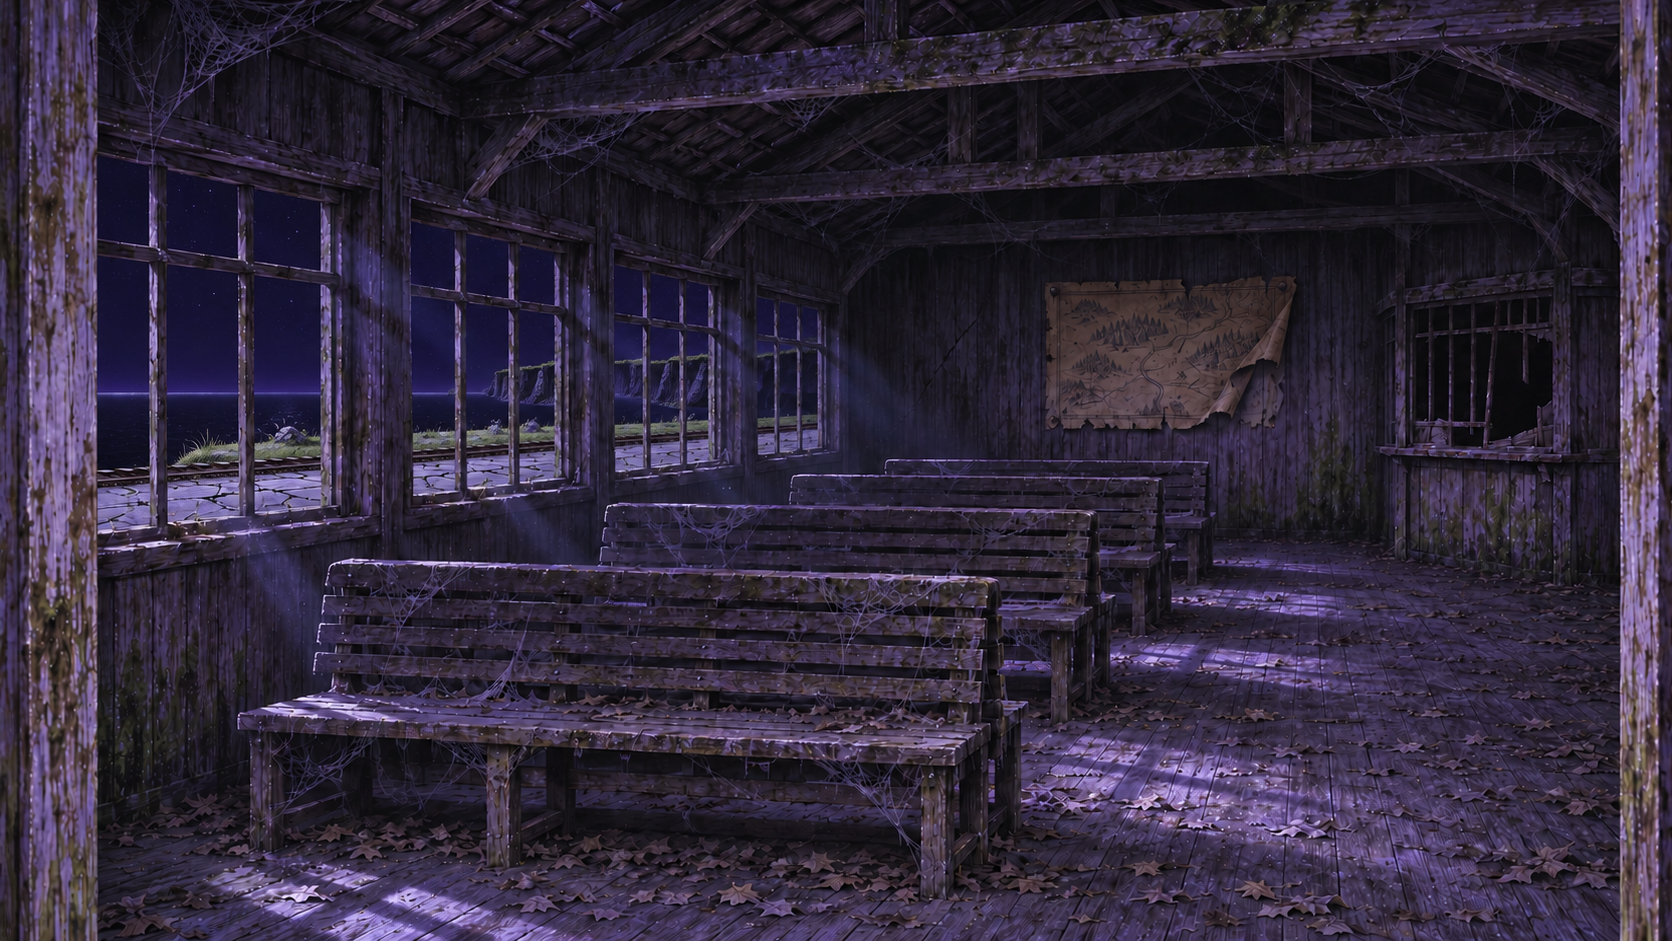
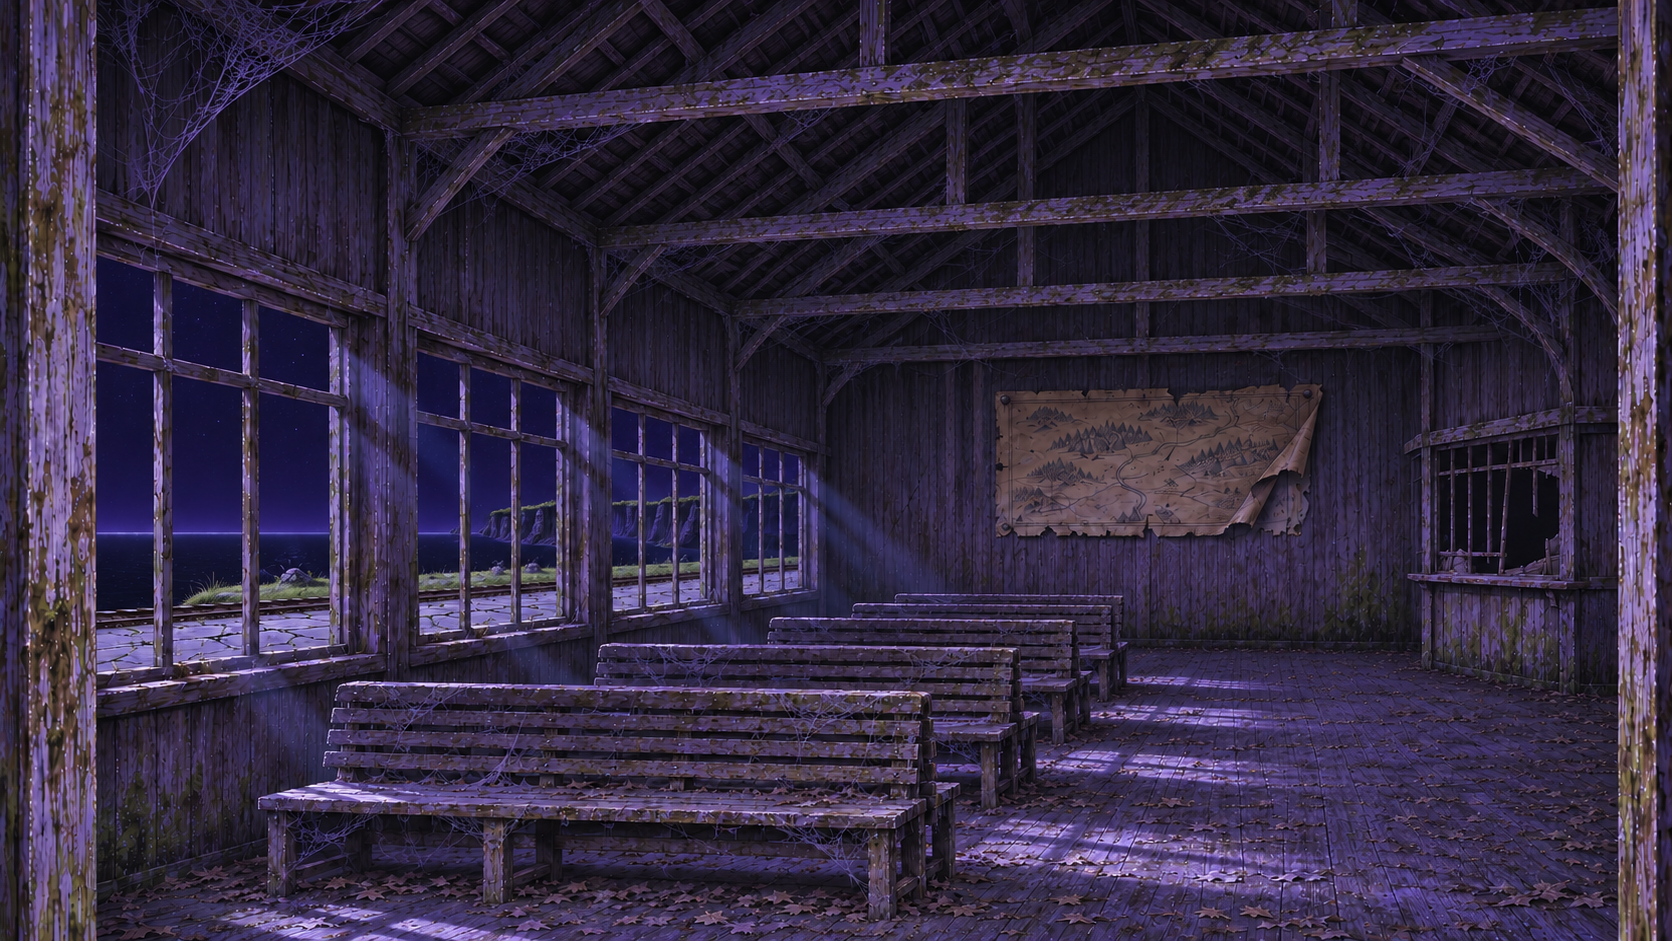
Match the waiting-room reference to through_window's proportions
The empty jishui_waiting_room reference showed a low room, while
b1a_act6_through_window has a high open roof with a taller end wall, so
the end wall, map and ticket window read at different sizes. Redraw the
reference with the same high roof and sizes, and update the act 6
prompts and the art bible to match.

diff --git a/packages/stories/raw/trainAdventure/branch_1a/act6.md b/packages/stories/raw/trainAdventure/branch_1a/act6.md
@@ -51,7 +51,7 @@ reuse branch_1a/b1a_act6_blame
 **旁白**：李杰、恵美和慷慨大叔三人朝著那個黑洞洞的候車室走去，留下了還在互相指責的學生和膽小眼鏡男。
 
 ```bg waiting_room
-the waiting room inside the abandoned wooden station house of Jishui: a long, low single-storey room with a dusty plank floor strewn with dead leaves; dark weathered plank walls with cracks and mould stains; exposed old roof beams heavy with cobwebs; rows of old wooden slatted benches draped with spider webs, all facing the same way; along the front wall, window openings in old wooden frames with no glass look out onto the cracked stone platform, the empty railway track just beyond it, then the grassy, rocky edge of a high sea cliff and the flat black sea far below it, with the sheer dark face of the cliff under the forest to one side and open sea to the horizon on the other, and no moon inside the openings; on the far end wall a large yellowed parchment map, torn at the edges and half peeling off the planks, held by rusty nails, with only faint ink lines of paths and a forest and no readable writing; a broken ticket window with wooden bars in one corner; cold violet moonlight falls in through the window openings in pale shafts; no lamps and no electric light inside. Camera: a medium shot inside the room at standing eye level, from beside the benches near the far end wall, looking at the map on the wall in three-quarter view. Li Jie (28-year-old man, short black hair, dark suit jacket, loosened navy tie, white shirt, black backpack) stands in front of the map holding up his phone, its white torch beam lighting a bright pool on the yellowed parchment; the rest of the room stays dark. Beside him on the left, Yamamoto (late-40s man, short grey-streaked hair, grey suit, navy striped tie) leans in, squinting and frowning at the map, baffled. On the right, a little behind Li Jie, Emi (young woman, long chestnut hair, beige cotton dress, white wired earphones), her sketchbook to her chest, gazes at the map with clear, sharp, focused eyes, reading it intently. Dust hangs in the torch beam. Only the people named here are in view. Muted cold palette with the small white glow of the phone torch, moody cinematic visual-novel background art, 16:9, no text, no logo
+the waiting room inside the abandoned wooden station house of Jishui: a long single-storey room under a high open roof with a dusty plank floor strewn with dead leaves; dark weathered plank walls with cracks and mould stains; exposed old roof beams heavy with cobwebs; rows of old wooden slatted benches draped with spider webs, all facing the same way; along the front wall, window openings in old wooden frames with no glass look out onto the cracked stone platform, the empty railway track just beyond it, then the grassy, rocky edge of a high sea cliff and the flat black sea far below it, with the sheer dark face of the cliff under the forest to one side and open sea to the horizon on the other, and no moon inside the openings; on the far end wall a large yellowed parchment map, torn at the edges and half peeling off the planks, held by rusty nails, with only faint ink lines of paths and a forest and no readable writing; a broken ticket window with wooden bars in one corner; cold violet moonlight falls in through the window openings in pale shafts; no lamps and no electric light inside. Camera: a medium shot inside the room at standing eye level, from beside the benches near the far end wall, looking at the map on the wall in three-quarter view. Li Jie (28-year-old man, short black hair, dark suit jacket, loosened navy tie, white shirt, black backpack) stands in front of the map holding up his phone, its white torch beam lighting a bright pool on the yellowed parchment; the rest of the room stays dark. Beside him on the left, Yamamoto (late-40s man, short grey-streaked hair, grey suit, navy striped tie) leans in, squinting and frowning at the map, baffled. On the right, a little behind Li Jie, Emi (young woman, long chestnut hair, beige cotton dress, white wired earphones), her sketchbook to her chest, gazes at the map with clear, sharp, focused eyes, reading it intently. Dust hangs in the torch beam. Only the people named here are in view. Muted cold palette with the small white glow of the phone torch, moody cinematic visual-novel background art, 16:9, no text, no logo
 ```
 
 **旁白**：候車室裡積了厚厚一層灰，空氣中充滿了木頭腐朽和塵土的味道。幾排木製長椅上佈滿了蜘蛛網。
@@ -85,7 +85,7 @@ the waiting room inside the abandoned wooden station house of Jishui: a long, lo
 **慷慨大叔**：(臉色一沉)不行，我得出去看看！這群年輕人太衝動了，萬一真鬧出事來就糟了！
 
 ```bg through_window
-the waiting room inside the abandoned wooden station house of Jishui: a long, low single-storey room with a dusty plank floor strewn with dead leaves; dark weathered plank walls with cracks and mould stains; exposed old roof beams heavy with cobwebs; rows of old wooden slatted benches draped with spider webs, all facing the same way; along the front wall, window openings in old wooden frames with no glass look out onto the cracked stone platform, the empty railway track just beyond it, then the grassy, rocky edge of a high sea cliff and the flat black sea far below it, with the sheer dark face of the cliff under the forest to one side and open sea to the horizon on the other, and no moon inside the openings; on the far end wall a large yellowed parchment map, torn at the edges and half peeling off the planks, held by rusty nails, with only faint ink lines of paths and a forest and no readable writing; a broken ticket window with wooden bars in one corner; cold violet moonlight falls in through the window openings in pale shafts; no lamps and no electric light inside. Camera: inside the dark waiting room at standing eye level, behind Li Jie and Emi, who stand at one of the glassless window openings in the front wall, looking out. Li Jie (28-year-old man, short black hair, dark suit jacket, black backpack) on the left of the opening and Emi (young woman, long chestnut hair, beige cotton dress, white wired earphones, plain white canvas sneakers) on the right, both seen from behind in three-quarter, dark shapes against the moonlit opening, Emi holding her sketchbook. Through the window opening, framed by its old wooden mullions: the cracked grey-white stone platform under cold violet moonlight, the empty track, the grassy cliff edge just past it, the black sea far below and, to one side, the dark cliff face under the forest, no moon visible. Out on the platform a loud argument, everyone facing each other, nobody walking away yet, from left to right: Yamamoto (late-40s man, short grey-streaked hair, no glasses, grey suit, navy striped tie, no bag, since he left it in the waiting room) steps in with one arm stretched out, trying to calm them; Saito Ren (rimless glasses, navy blazer over a white tee) leans forward shouting at the students; Kenta (light-brown hair, black-and-grey track jacket) jabs a finger at Saito, shouting back; Asuka (brown ponytail, denim jacket, blue jeans) shouts with both fists clenched; Misaki (dark bob, lavender cardigan, floral skirt, cream shoulder bag) cringes beside her; Takumi (black knit sweater) stands behind them, grim. The people outside are small. Only the people named here are in view. Muted cold palette, moody cinematic visual-novel background art, 16:9, no text, no logo
+the waiting room inside the abandoned wooden station house of Jishui: a long single-storey room under a high open roof with a dusty plank floor strewn with dead leaves; dark weathered plank walls with cracks and mould stains; exposed old roof beams heavy with cobwebs; rows of old wooden slatted benches draped with spider webs, all facing the same way; along the front wall, window openings in old wooden frames with no glass look out onto the cracked stone platform, the empty railway track just beyond it, then the grassy, rocky edge of a high sea cliff and the flat black sea far below it, with the sheer dark face of the cliff under the forest to one side and open sea to the horizon on the other, and no moon inside the openings; on the far end wall a large yellowed parchment map, torn at the edges and half peeling off the planks, held by rusty nails, with only faint ink lines of paths and a forest and no readable writing; a broken ticket window with wooden bars in one corner; cold violet moonlight falls in through the window openings in pale shafts; no lamps and no electric light inside. Camera: inside the dark waiting room at standing eye level, behind Li Jie and Emi, who stand at one of the glassless window openings in the front wall, looking out. Li Jie (28-year-old man, short black hair, dark suit jacket, black backpack) on the left of the opening and Emi (young woman, long chestnut hair, beige cotton dress, white wired earphones, plain white canvas sneakers) on the right, both seen from behind in three-quarter, dark shapes against the moonlit opening, Emi holding her sketchbook. Through the window opening, framed by its old wooden mullions: the cracked grey-white stone platform under cold violet moonlight, the empty track, the grassy cliff edge just past it, the black sea far below and, to one side, the dark cliff face under the forest, no moon visible. Out on the platform a loud argument, everyone facing each other, nobody walking away yet, from left to right: Yamamoto (late-40s man, short grey-streaked hair, no glasses, grey suit, navy striped tie, no bag, since he left it in the waiting room) steps in with one arm stretched out, trying to calm them; Saito Ren (rimless glasses, navy blazer over a white tee) leans forward shouting at the students; Kenta (light-brown hair, black-and-grey track jacket) jabs a finger at Saito, shouting back; Asuka (brown ponytail, denim jacket, blue jeans) shouts with both fists clenched; Misaki (dark bob, lavender cardigan, floral skirt, cream shoulder bag) cringes beside her; Takumi (black knit sweater) stands behind them, grim. The people outside are small. Only the people named here are in view. Muted cold palette, moody cinematic visual-novel background art, 16:9, no text, no logo
 ```
 
 **旁白**：慷慨大叔快步走出候車室。李杰和恵美留在原地，透過破舊的窗戶看著外面的情況，只能聽到激烈的對話。

diff --git a/packages/stories/raw/trainAdventure/docs/art-bible.md b/packages/stories/raw/trainAdventure/docs/art-bible.md
@@ -100,7 +100,7 @@ These are settled from the story text and hold in every image, acts 1-6:
 The station is on the forest (left) side of the train. Seen from the platform: the station house along the far side with the forest right behind it, and the track and the black sea with the two moons on the other side. The line runs along the top of a high sea cliff, not a beach: past the track a strip of grass ends at the cliff edge, the sea lies far below. Facing the sea, the cliff shows on the left, as a sheer dark rock face under the forest where the track curves away, with surf on the rocks at its foot (act 5 hears 海浪拍打礁石). To the right is open sea out to a straight horizon, with no further cliffs. Hapadona asked for the cliff on b1a_act5_train_gone, then for the right-hand cliffs to go and the left one to read more clearly. Every platform shot that faces the station house keeps the railway behind the camera, so it shows no train, no track and no moon. A shot that faces the sea (b1a_act5_train_gone) shows the empty track and the moons over the water, and no station house.
 
 - **Platform reference** (`_reference/jishui_platform.png`, empty): eye level from the platform's track edge. The long single-storey station house runs along the back: tiled roof with deep eaves, plank walls, glassless windows, a wide open doorway onto the benches inside, the timetable board, paper lanterns under the eaves, and the 寂海 sign on two posts. The dirt path leaves the platform's far end on the right into the forest, and the left end has none. This holds for every shot, act 3 included: the sign points right to 幽冥之都, and the map in the waiting room shows the forest path branching off toward 幽冥之都.
-- **Waiting-room reference** (`_reference/jishui_waiting_room.png`, empty): a long low room with plank walls, cobwebbed roof beams and rows of slatted benches all facing one way. The front-wall windows look out onto the platform, the empty track, the grassy cliff edge and the black sea far below, with the dark cliff face under the forest to one side and no moon in them. A torn parchment map of paths and forest hangs on the far end wall, and a barred ticket window sits in the corner. There are no lamps inside; moonlight falls in through the windows in pale shafts.
+- **Waiting-room reference** (`_reference/jishui_waiting_room.png`, empty): a long room with plank walls, a high open roof of cobwebbed wooden trusses and rows of slatted benches all facing one way. Its proportions match b1a_act6_through_window: the end wall, the map and the barred ticket window are the same size relative to the benches in both (Hapadona flagged the mismatch). The front-wall windows look out onto the platform, the empty track, the grassy cliff edge and the black sea far below, with the dark cliff face under the forest to one side and no moon in them. A torn parchment map of paths and forest hangs on the far end wall, and a barred ticket window sits in the corner. There are no lamps inside; moonlight falls in through the windows in pale shafts.
 - **Sign:** 寂海 large, with ← 永恆之森 ｜ 幽冥之都 → beneath. It is readable only in the act 6 close-up (b1a_act6_sign). The image model kept writing the variant 恒, so 恆 there was retouched by hand to match the story text.
 
 ### 幽冥之都 (branch 1b, act 6)
